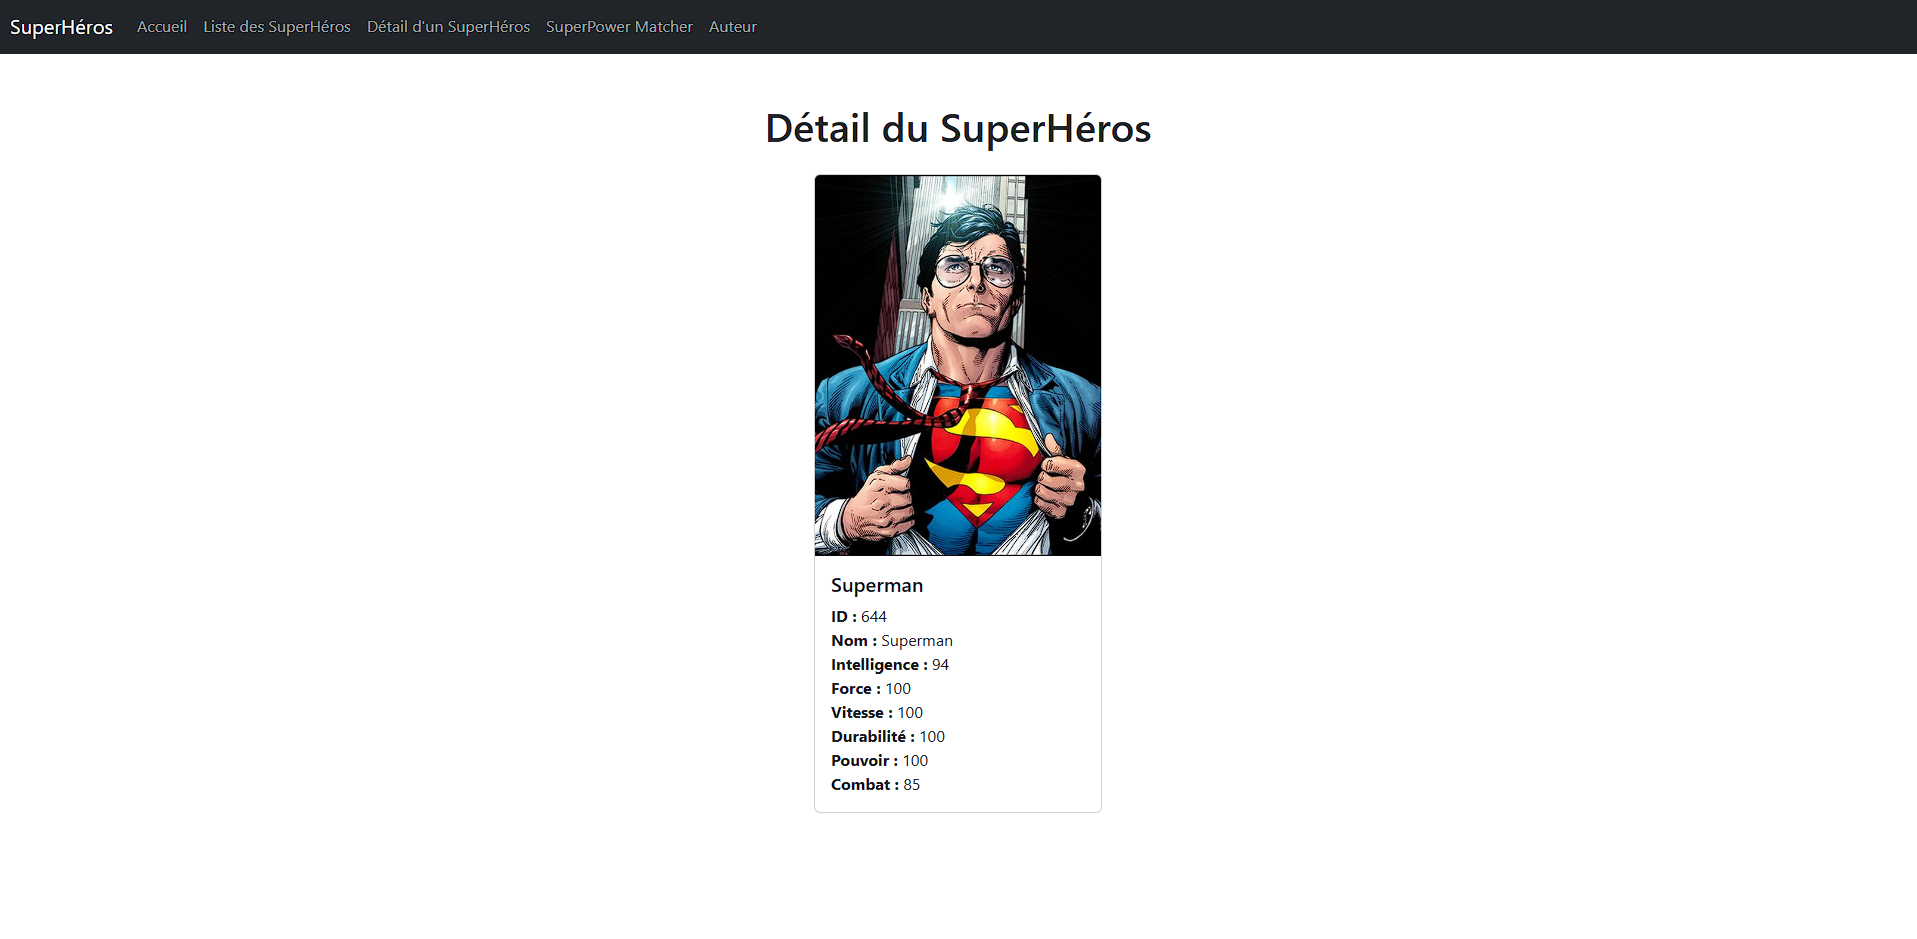
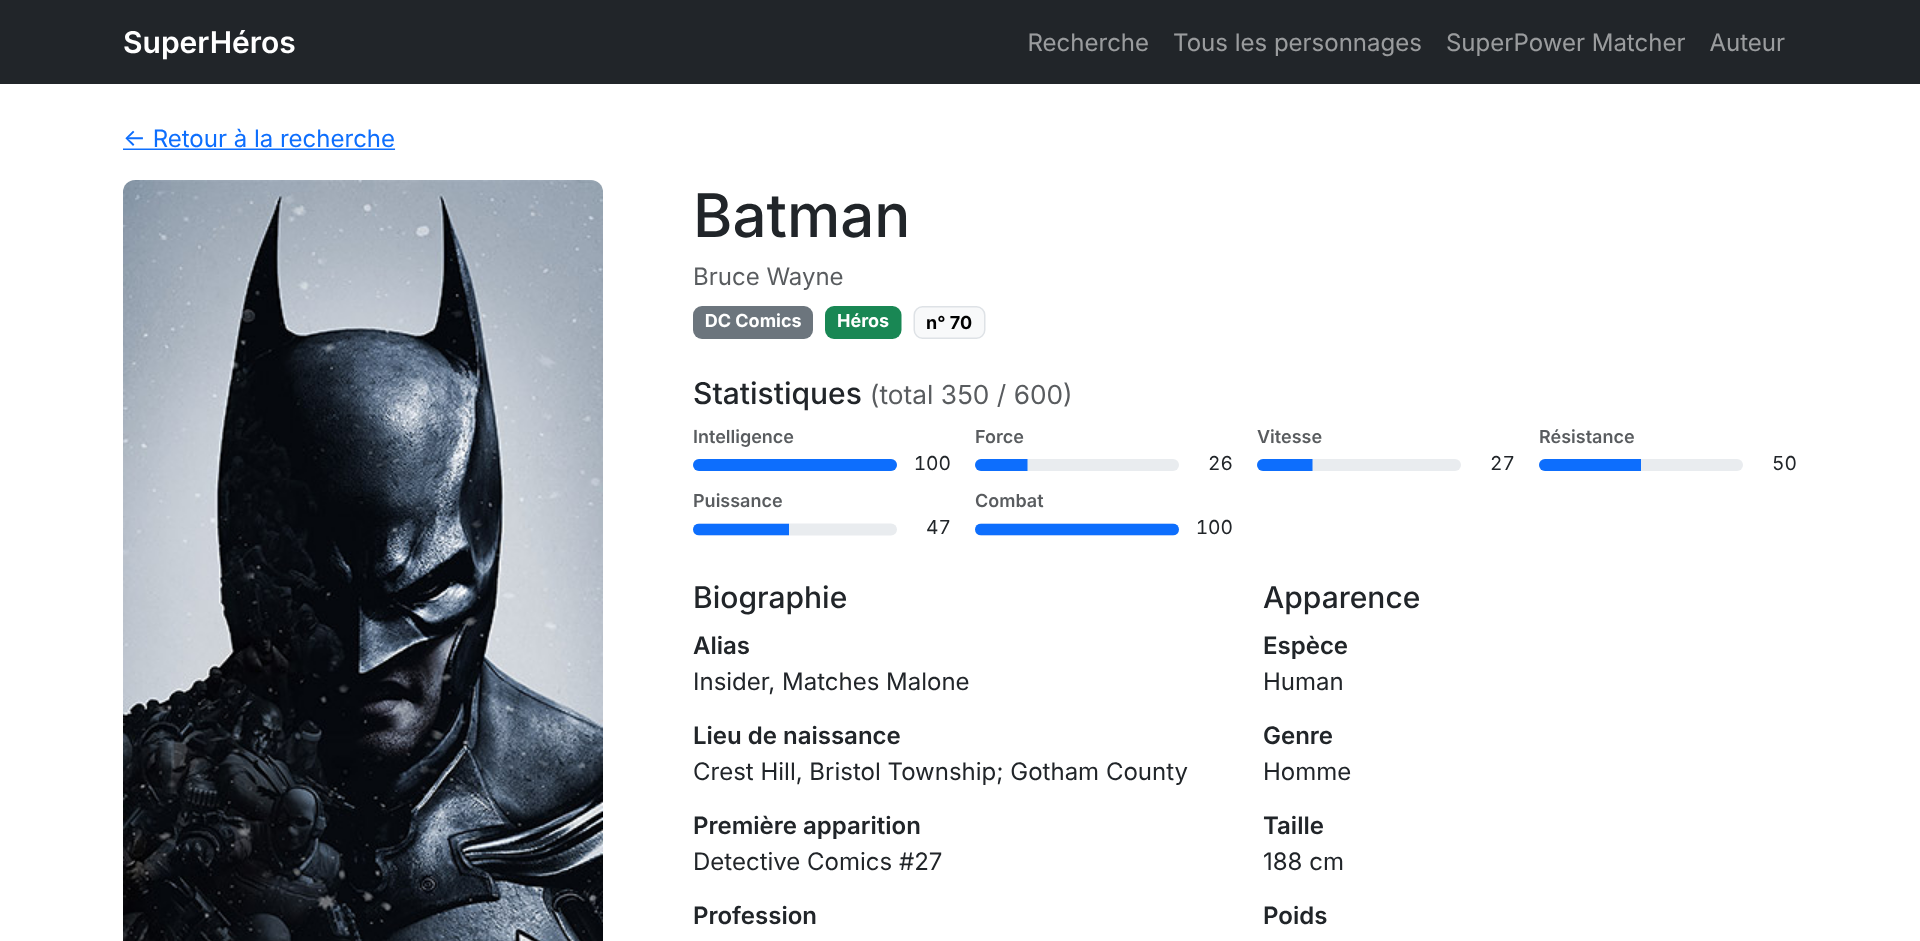
Projet SuperHéros : version 2 et nouvelles captures

diff --git a/src/content/projets/superheros.md b/src/content/projets/superheros.md
@@ -1,6 +1,6 @@
 ---
 titre: SuperHéros
-resume: Rechercher, consulter et comparer des super-héros selon leurs statistiques, à partir d’une API publique.
+resume: Rechercher, filtrer et comparer 563 personnages selon leurs statistiques de pouvoir, à partir d’une API publique.
 annee: '2025'
 contexte: Projet de formation
 role: Conception et développement
@@ -9,33 +9,35 @@ ordre: 4
 depot: https://github.com/MiscuitAtlas/SuperHeros_VueJS
 demo: https://miscuitatlas.github.io/SuperHeros_VueJS/
 couverture: ../../assets/projets/superheros/liste.png
-couvertureAlt: Liste des super-héros avec leurs statistiques de pouvoir
+couvertureAlt: Liste des personnages avec leurs statistiques de pouvoir et les filtres par éditeur et par camp
 captures:
   - src: ../../assets/projets/superheros/recherche.png
-    alt: Page de recherche de super-héros
-    legende: La recherche par nom.
+    alt: Recherche de « spider » avec les statistiques de chaque personnage
+    legende: La recherche instantanée, par nom de héros ou nom civil.
   - src: ../../assets/projets/superheros/detail.png
-    alt: Fiche détaillée d’un super-héros
-    legende: La fiche détaillée d’un héros.
-  - src: ../../assets/projets/superheros/comparateur.png
-    alt: Comparateur de pouvoirs entre deux super-héros
-    legende: Le comparateur de pouvoirs.
+    alt: Fiche détaillée de Batman avec ses statistiques, sa biographie et son apparence
+    legende: La fiche détaillée d’un personnage.
+  - src: ../../assets/projets/superheros/matcher.png
+    alt: SuperPower Matcher avec des curseurs de niveau minimum et les personnages correspondants
+    legende: Le SuperPower Matcher, qui filtre par niveaux minimums.
 ---
 
 ## Le projet
 
-Une application Vue.js qui interroge la [SuperHero API](https://akabab.github.io/superhero-api/) (données publiques au format JSON) pour explorer plus de 500 personnages.
+Une application Vue.js qui interroge la [superhero-api](https://github.com/akabab/superhero-api), des données publiques au format JSON, pour explorer 563 personnages. Réalisée lors d’un TP de licence professionnelle, puis reprise pour corriger ses défauts et la compléter.
 
 ## Fonctionnalités
 
-- **Recherche** d’un héros par son nom.
-- **Liste** de tous les héros avec leurs statistiques : intelligence, force, vitesse, endurance, puissance et combat.
-- **Fiche détaillée** de chaque héros.
-- **Comparateur** de pouvoirs entre héros.
+- **Recherche** instantanée par nom de héros ou nom civil, sans tenir compte des accents.
+- **Liste** complète, filtrable par éditeur et par camp, triée par nom ou par puissance totale.
+- **Fiche détaillée** : statistiques en barres, biographie et apparence.
+- **SuperPower Matcher** : un curseur par statistique fixe un niveau minimum, et les personnages qui les atteignent tous s’affichent du plus puissant au moins puissant.
 
 ## Points techniques
 
-- Vue.js 3 chargé directement dans les pages, sans étape de build.
-- Appels à l’API avec `fetch` et affichage réactif des résultats.
-- Mise en page responsive avec Bootstrap 5.
+- Vue.js 3 chargé directement dans les pages, sans étape de build : l’application s’ouvre même sans serveur.
+- Composants partagés entre les pages (navigation, ligne de personnage, statistiques, chargement), données chargées une seule fois.
+- Dépendances en versions figées, avec contrôle d’intégrité (SRI).
+- Gestion des états de chargement et d’erreur, et pages accessibles au clavier.
+- Tests unitaires de la recherche, du matcher et des filtres avec `node:test`.
 - Démo publiée sur GitHub Pages.
